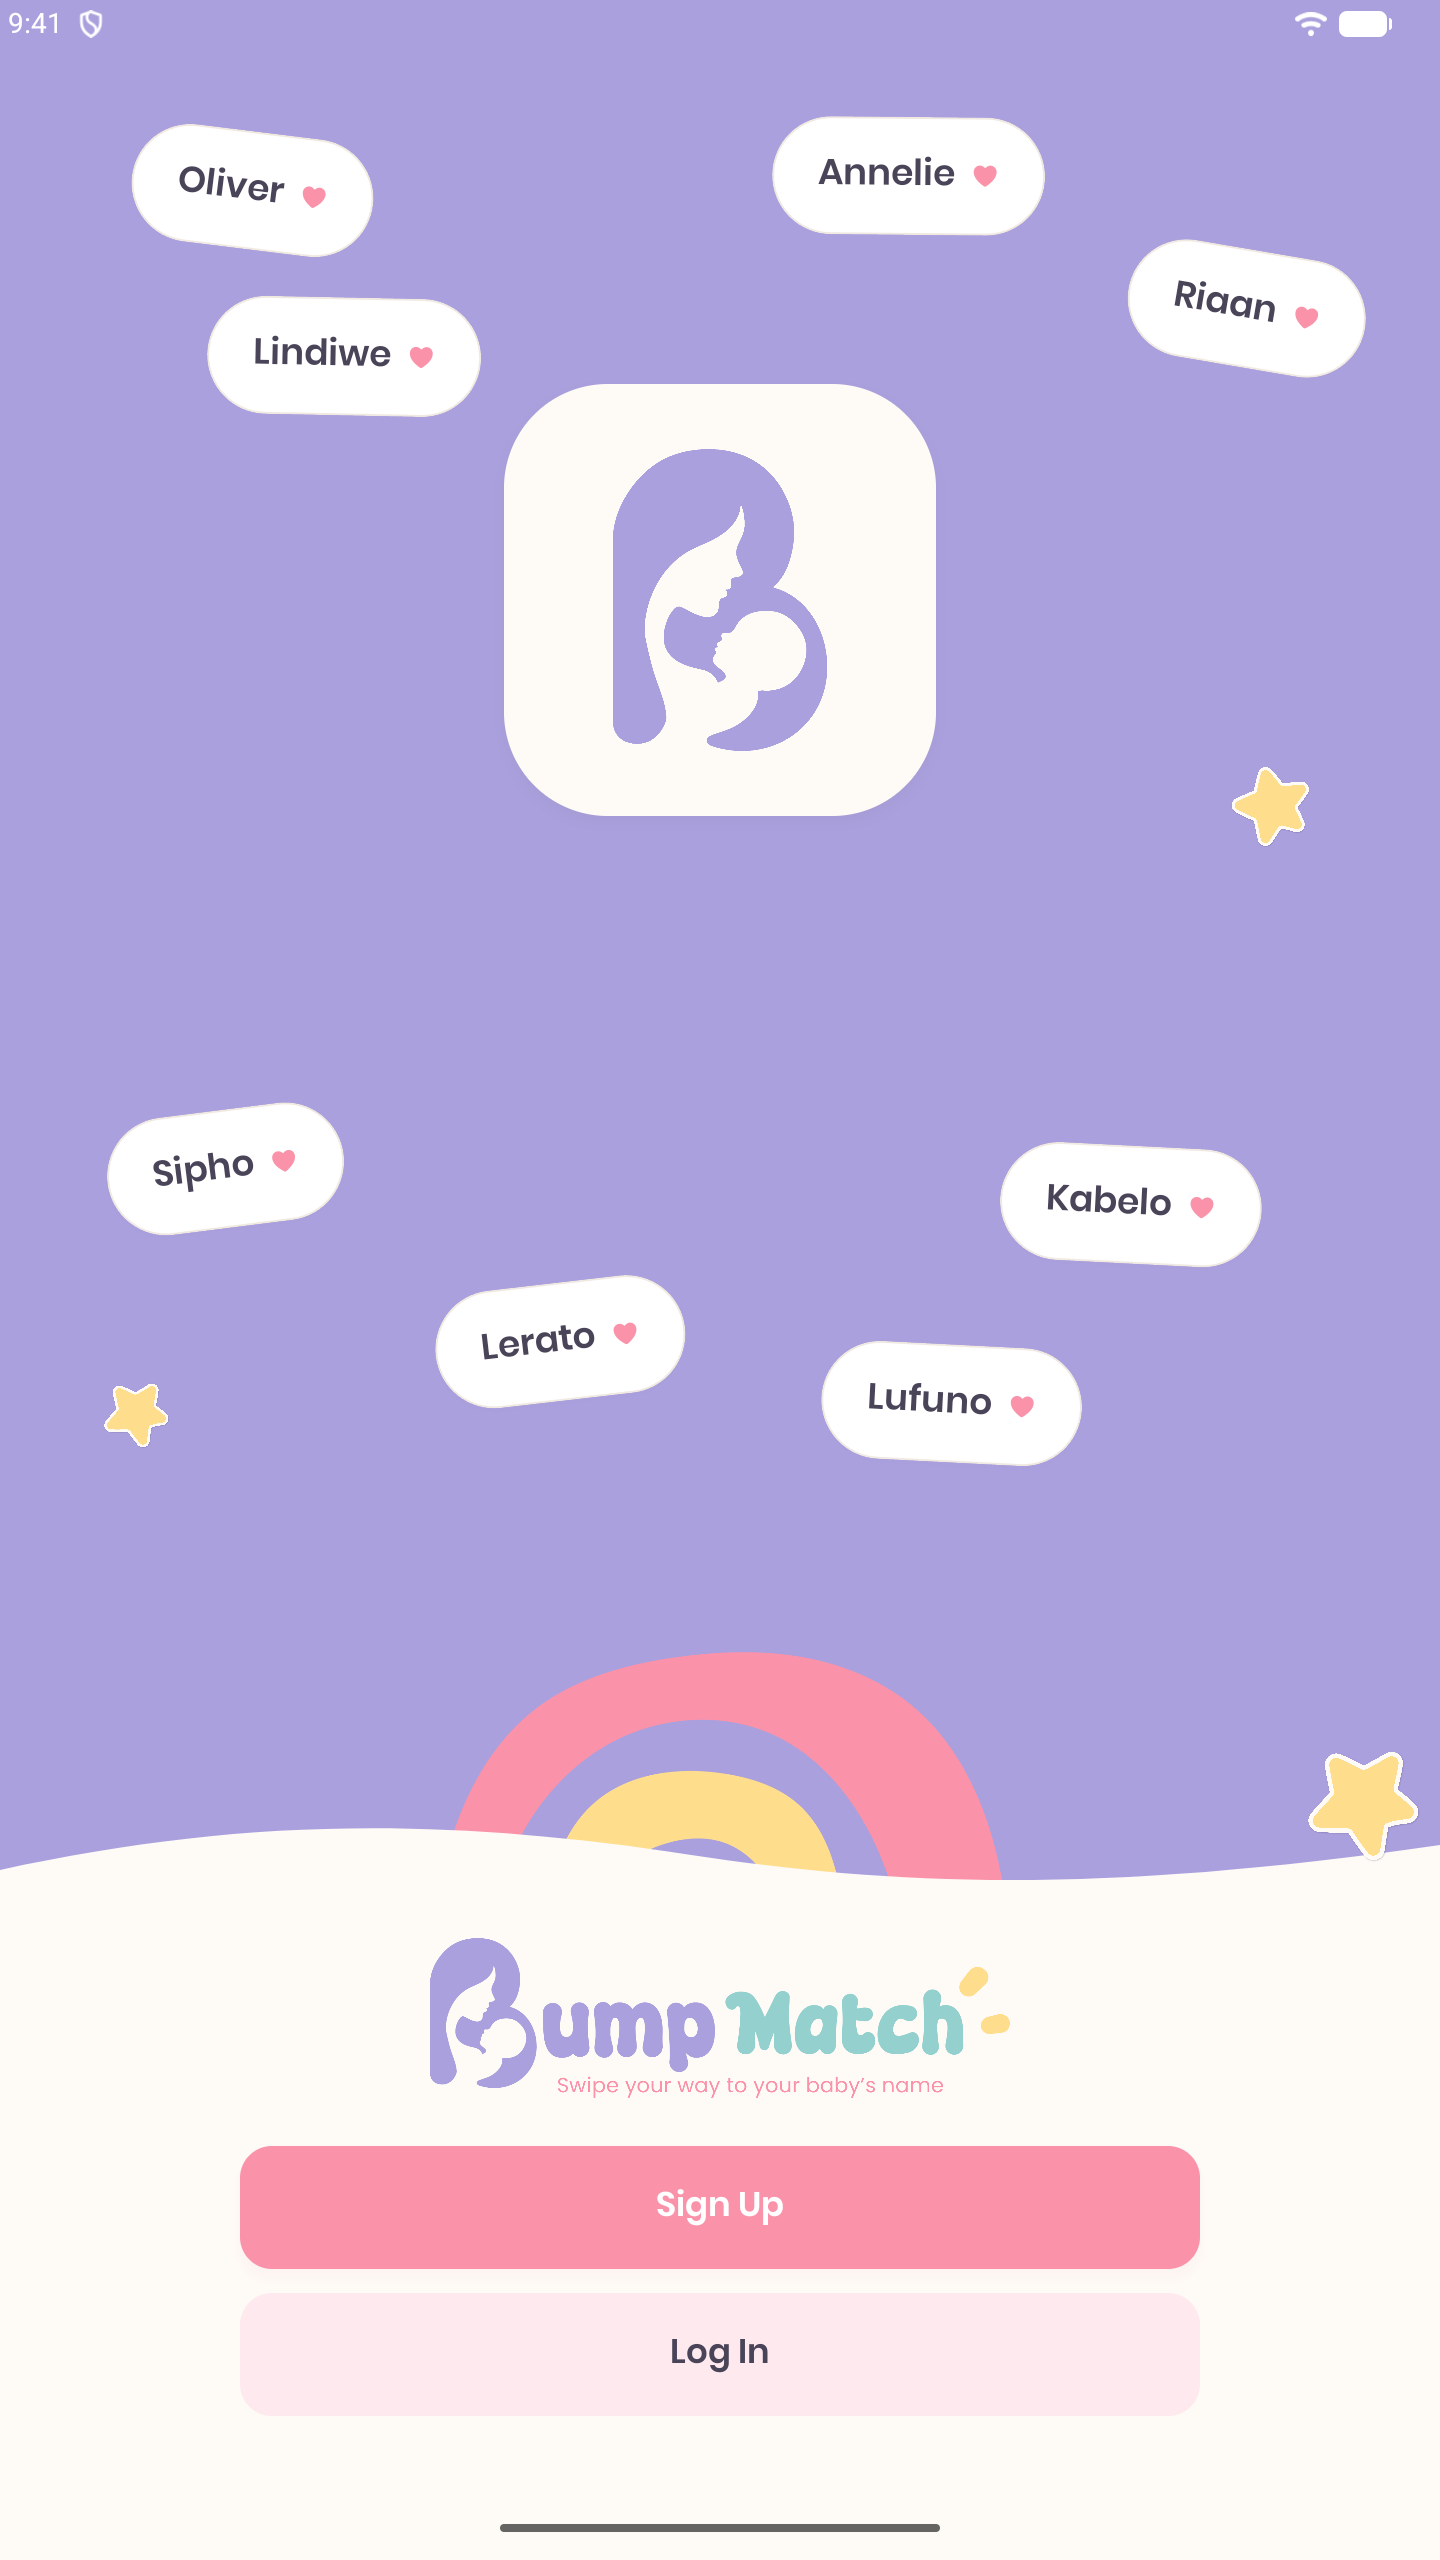
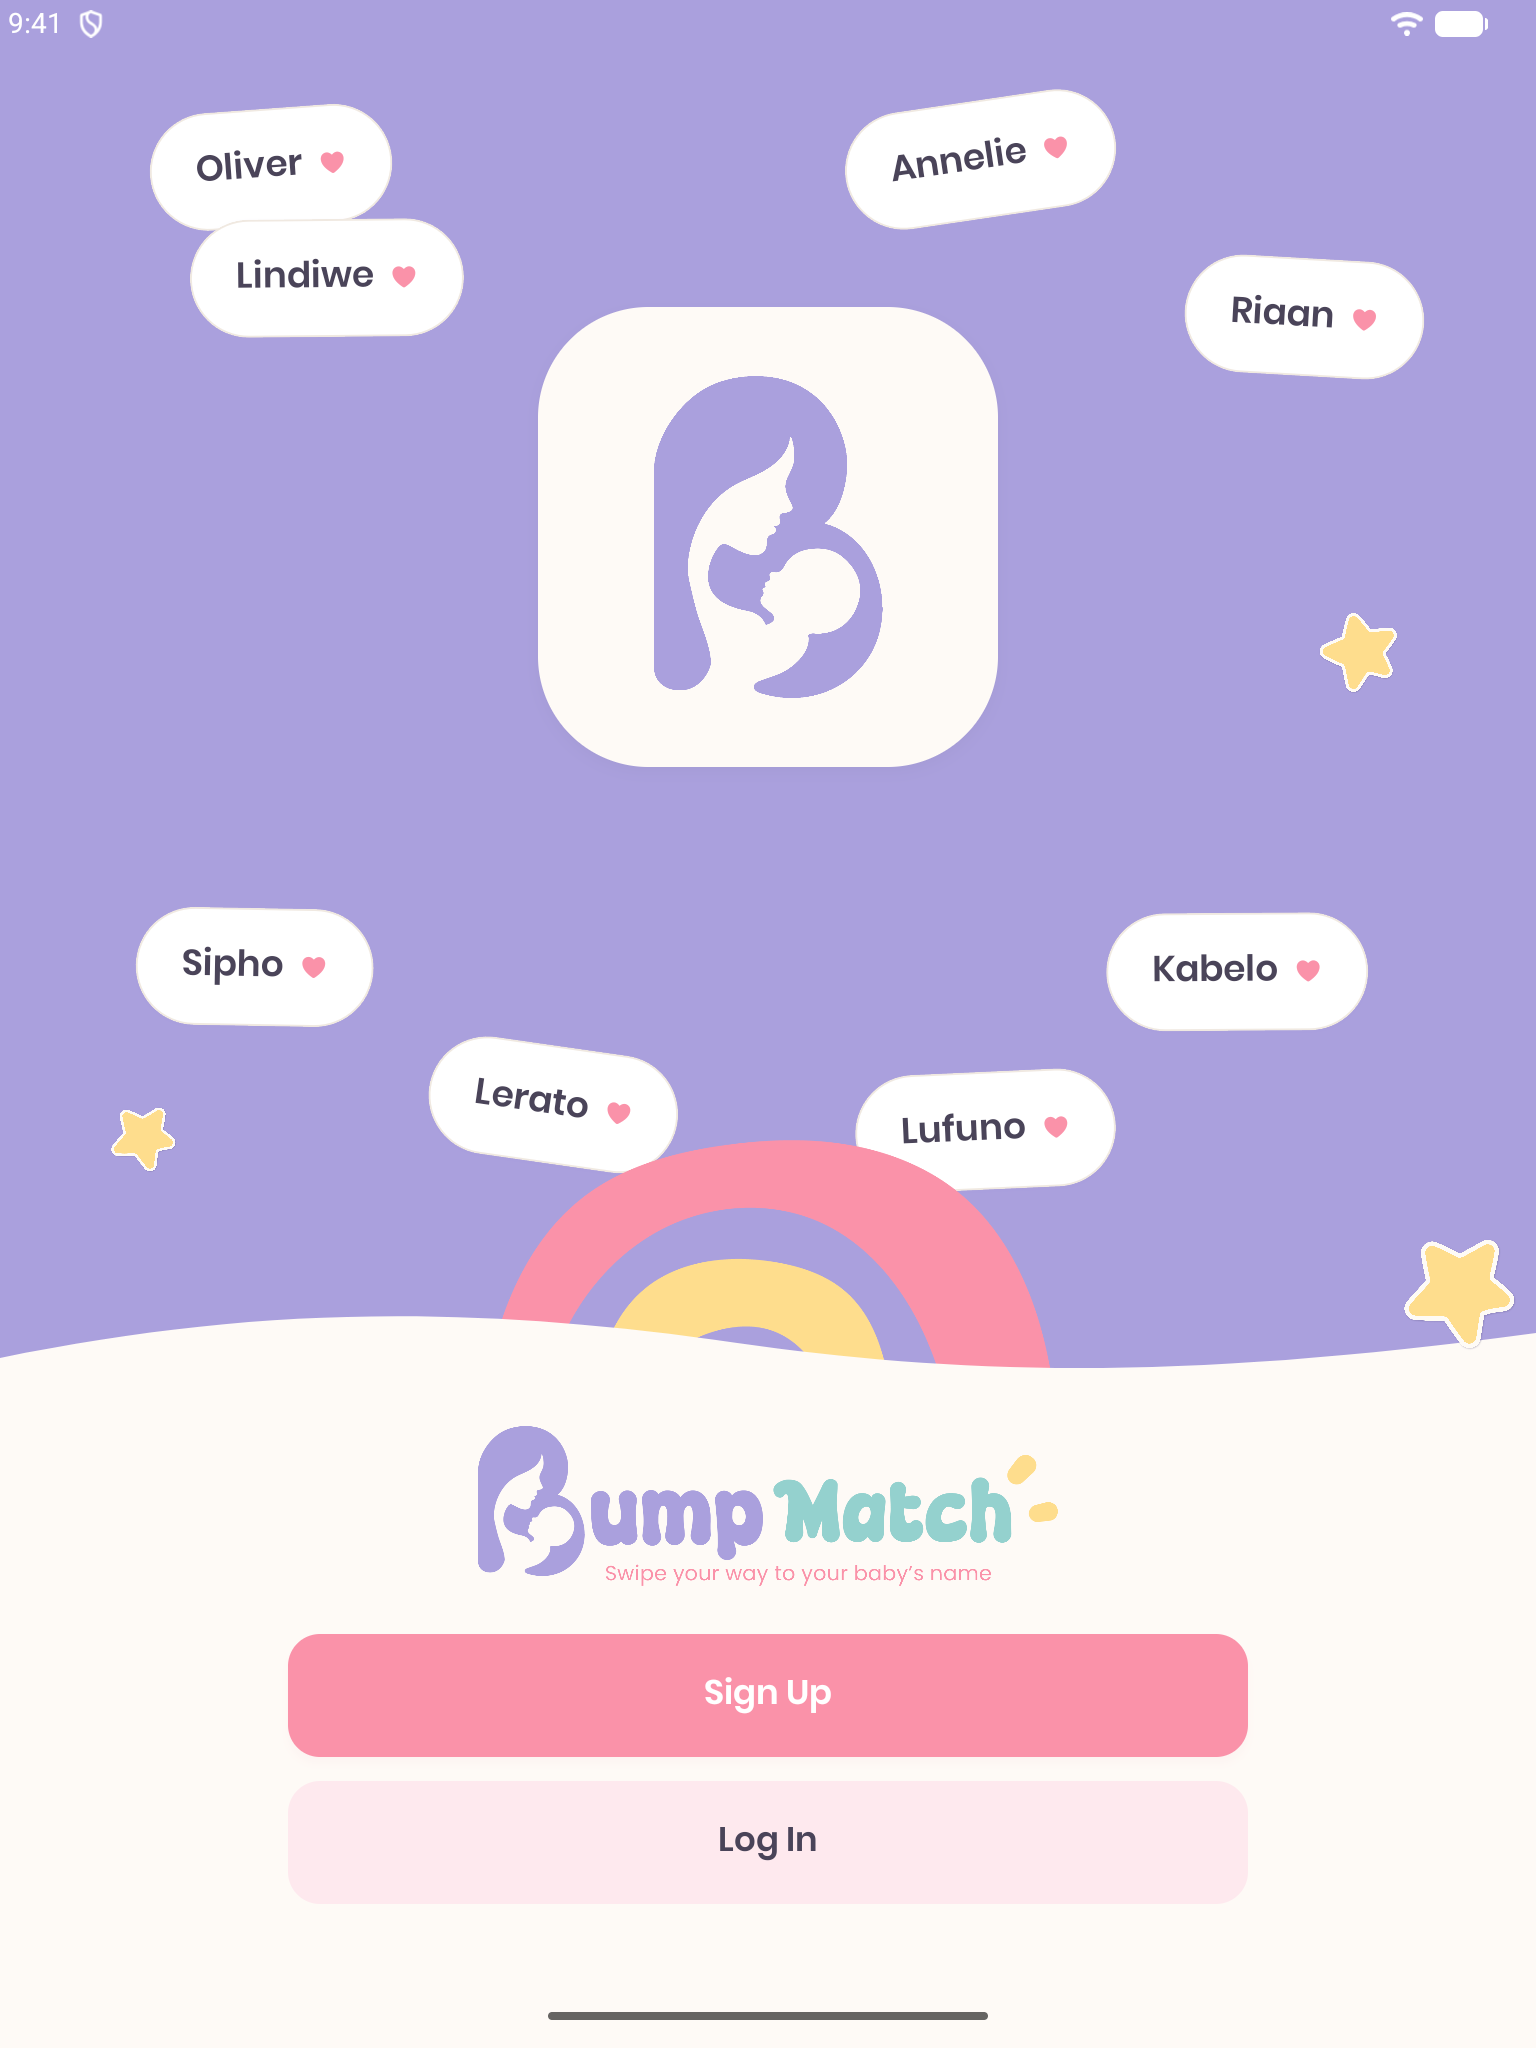
Re-shoot 10-inch tablet screenshots at 3:4
Play refused both previous attempts for this slot. Comparing against the set it
did accept:

  2064x2752  3:4    (0.750)  accepted
  1600x2560  5:8    (0.625)  rejected
  1440x2560  9:16   (0.563)  rejected

The slot rejects images that are too elongated, so moving to 9:16 made it worse
rather than better. Re-captured at 1536x2048 - exactly 3:4, a real 4:3-class
tablet resolution, and comfortably over Play's 1080px minimum for this slot.

The 7-inch slot and the phone slot accept taller ratios and are unchanged.
README records the measurements so this isn't rediscovered later.

diff --git a/scripts/export-store-screenshots.py b/scripts/export-store-screenshots.py
@@ -58,14 +58,17 @@ SETS = {
             ("05", "profile", "n7-profile.png"),
         ],
     ),
+    # 3:4, not 9:16. Play's 10-inch slot rejects images that are too
+    # elongated: 2064x2752 (3:4) was accepted historically while 1600x2560
+    # (5:8) and 1440x2560 (9:16) were both refused.
     "android-tablet-10": (
-        (1440, 2560),
+        (1536, 2048),
         [
-            ("01", "landing", "n10-landing.png"),
-            ("02", "swipe", "n10-swipe.png"),
-            ("03", "liked-names", "n10-liked.png"),
-            ("04", "partner", "n10-partner.png"),
-            ("05", "profile", "n10-profile.png"),
+            ("01", "landing", "f10-landing.png"),
+            ("02", "swipe", "f10-swipe.png"),
+            ("03", "liked-names", "f10-liked.png"),
+            ("04", "partner", "f10-partner.png"),
+            ("05", "profile", "f10-profile.png"),
         ],
     ),
 }

diff --git a/assets/store/README.md b/assets/store/README.md
@@ -9,6 +9,8 @@ Liked Names, Partner, Profile.
 | `screenshots/ios-iphone-6.9/` | 1320×2868 | App Store — 6.9" iPhone (the only mandatory iPhone size; Apple scales it down for smaller devices) |
 | `screenshots/ios-ipad-13/` | 2064×2752 | App Store — 13" iPad. Required because `app.json` sets `ios.supportsTablet: true` |
 | `screenshots/android-phone/` | 1080×2400 | Play Console — phone screenshots |
+| `screenshots/android-tablet-7/` | 1080×1920 | Play Console — 7" tablet |
+| `screenshots/android-tablet-10/` | 1536×2048 | Play Console — 10" tablet (**3:4 — see below**) |
 | `feature-graphic-1024x500.png` | 1024×500 | Play Console — feature graphic |
 | `app-icon-512.png` | 512×512 | Play Console — listing icon |
 
@@ -49,6 +51,21 @@ fails loudly instead of reaching the store.
   debuggable, so seeding a logged-in session needs a one-off release build with
   `debuggable true` applied through a `gradlew -I` init script — this keeps
   `android/app/build.gradle` untouched.
+
+## Play's 10-inch tablet ratio
+
+The 10" slot rejects images that are too elongated. Measured against what Play
+actually accepted:
+
+| Size | Ratio | Result |
+|---|---|---|
+| 2064×2752 | 3:4 (0.750) | accepted |
+| 1600×2560 | 5:8 (0.625) | rejected |
+| 1440×2560 | 9:16 (0.563) | rejected |
+
+So the cutoff sits above 0.625, and **3:4 is the safe target** — do not "fix"
+this slot to 16:9/9:16, which makes it worse. The 7" slot and phone slot are
+happy with taller ratios.
 
 ## Still stale
 
